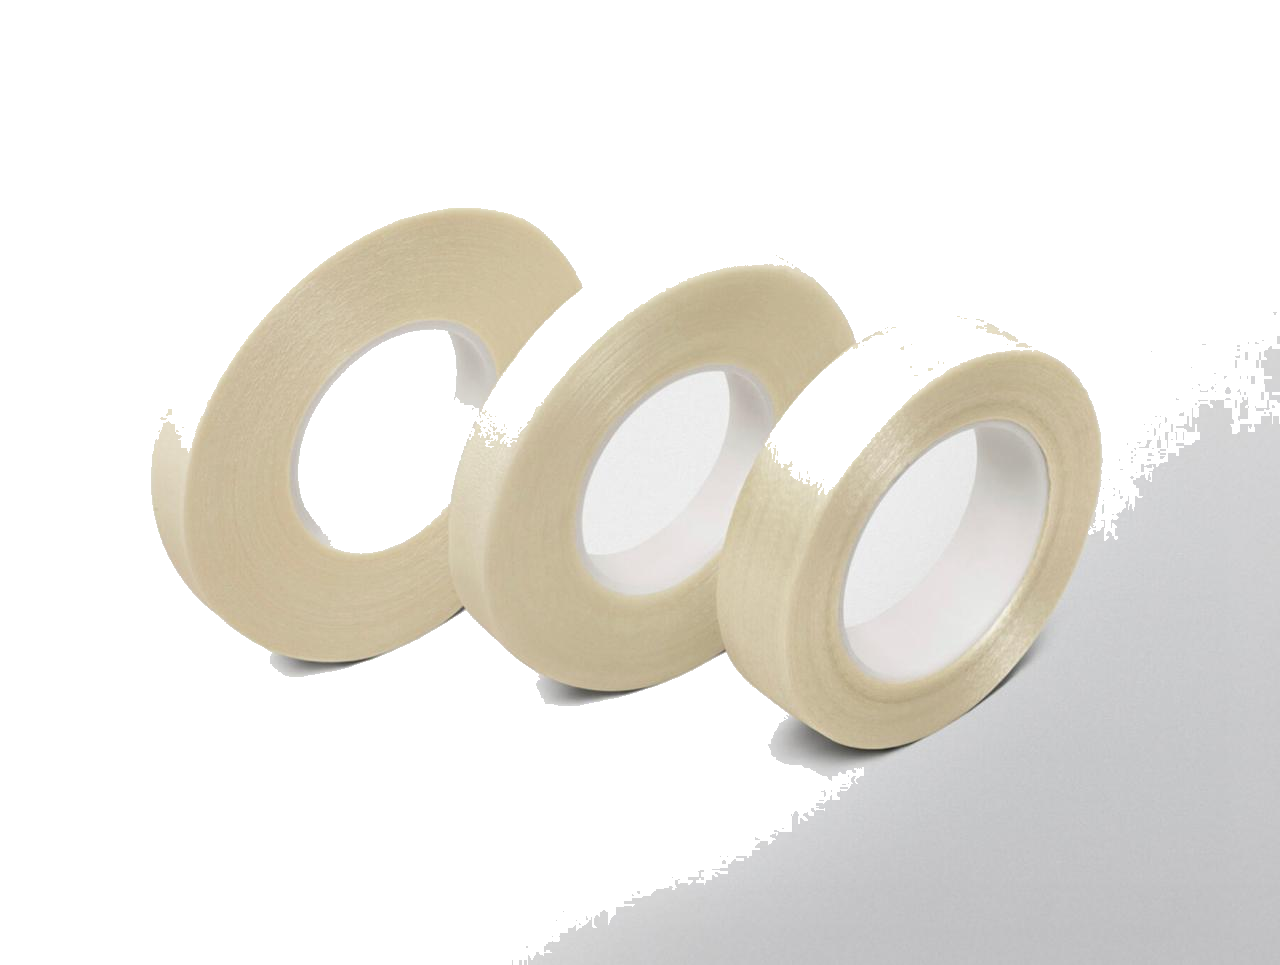
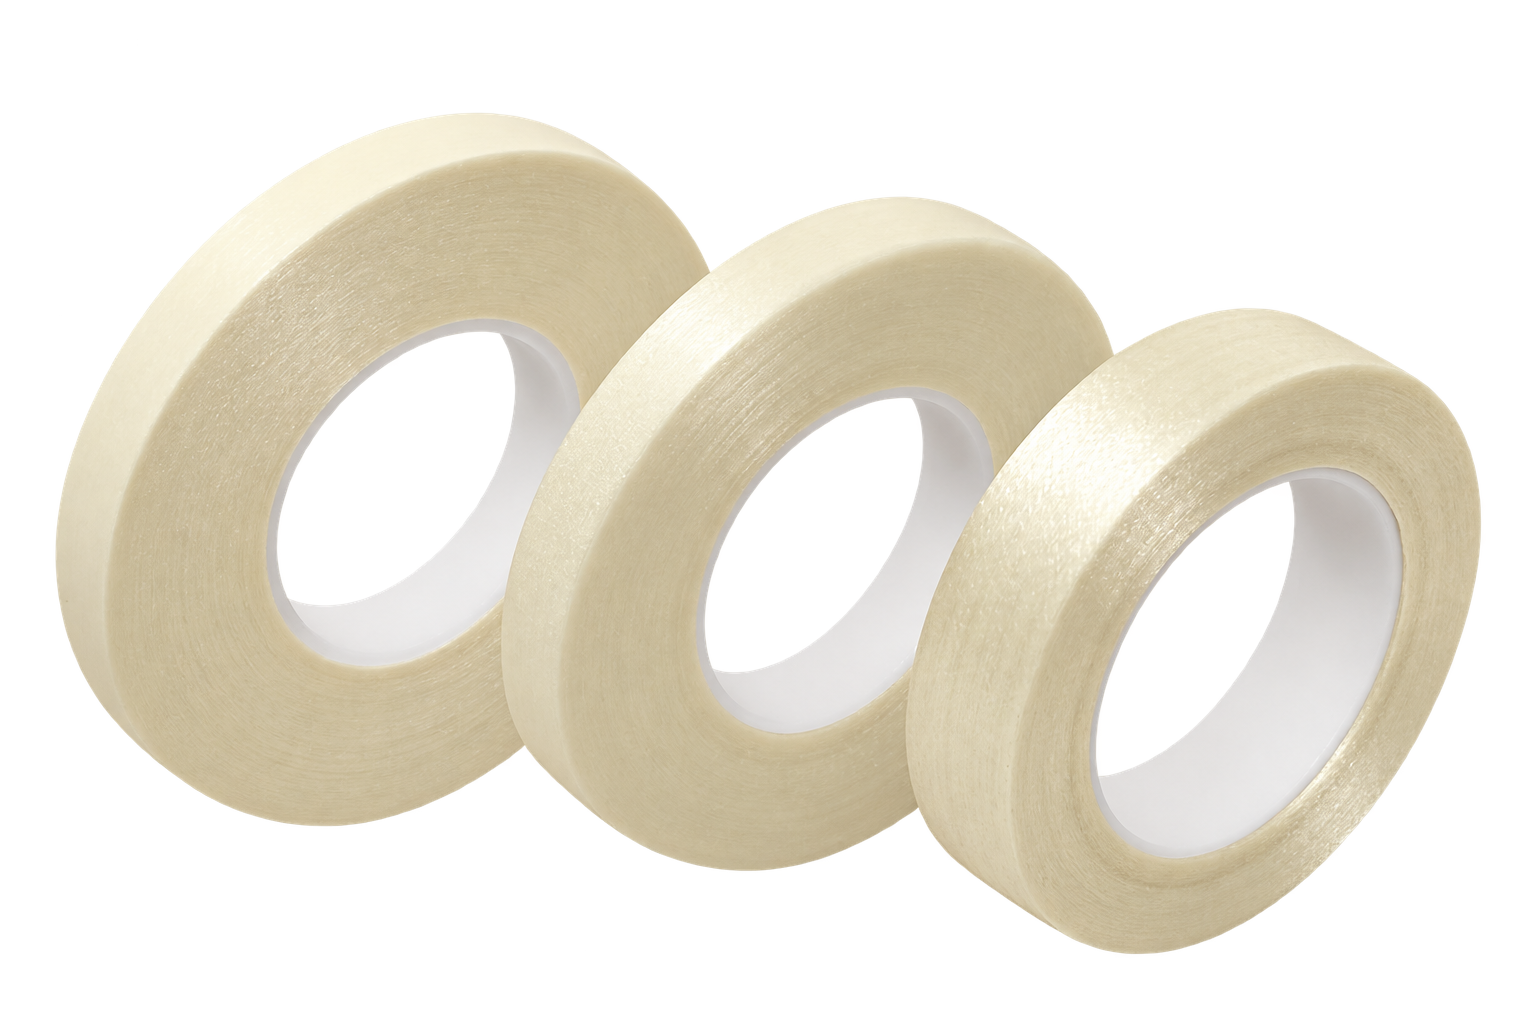
Corrige las 6 observaciones del PDF de Jessica
1. Margen lateral único (--content-padding-x) aplicado consistentemente en
   header, hero, secciones de marca, marcas destacadas, listado de
   productos y footer — antes cada uno tenía su propio padding suelto.
2. Hero: background-size pasa de 90% auto a cover, eliminando las franjas
   negras visibles a los lados y arriba/abajo de la imagen.
3. Fix real del carrusel de marcas: topRow/bottomRow partían el array de
   15 marcas en dos mitades distintas (8 y 7) en vez de mostrar el set
   completo en ambas filas — por eso "las marcas de abajo no estaban
   arriba". Ahora ambas filas muestran las 15 marcas completas, lo que
   también resuelve el hueco vacío al iniciar el carrusel (más ancho de
   contenido real por fila).
4. Se reemplazan las 3 imágenes de Weidmann (Cartón form vall, Cintas
   dieléctricas adhesivas, Tubos de papel crepé) por las versiones que el
   cliente corrigió y volvió a subir, ya con el fondo bien removido.
5. Header en mobile pasa a 3 filas apiladas (logo centrado, buscador de
   ancho completo, nav con iconos junto a "Productos"/"Contacto"),
   liberando espacio vertical para que el hero se vea completo.
6. product-card: el nombre del producto ahora reserva una altura fija (4
   líneas con line-clamp) independiente de su longitud real, corrigiendo
   el bug donde las 2 primeras tarjetas del listado en mobile se veían de
   distinto tamaño hasta que un re-render (ej. una búsqueda) las igualaba.

diff --git a/src/app/shared/components/brand-carousel/brand-carousel.spec.ts b/src/app/shared/components/brand-carousel/brand-carousel.spec.ts
@@ -14,20 +14,20 @@ function createComponent(brands: Brand[]) {
 }
 
 describe('BrandCarousel', () => {
-  it('splits an even list of brands evenly between the two rows', () => {
+  it('shows the full brand list in both rows, not a partition between them', () => {
     const brands = ['a', 'b', 'c', 'd'].map(makeBrand);
     const component = createComponent(brands);
 
-    expect(component.topRow().map((b) => b.id)).toEqual(['a', 'b']);
-    expect(component.bottomRow().map((b) => b.id)).toEqual(['c', 'd']);
+    expect(component.topRow().map((b) => b.id)).toEqual(['a', 'b', 'c', 'd']);
+    expect(component.bottomRow().map((b) => b.id)).toEqual(['a', 'b', 'c', 'd']);
   });
 
-  it('gives the top row the extra brand when the list has an odd length', () => {
+  it('handles an odd-length list the same way in both rows', () => {
     const brands = ['a', 'b', 'c'].map(makeBrand);
     const component = createComponent(brands);
 
-    expect(component.topRow().map((b) => b.id)).toEqual(['a', 'b']);
-    expect(component.bottomRow().map((b) => b.id)).toEqual(['c']);
+    expect(component.topRow().map((b) => b.id)).toEqual(['a', 'b', 'c']);
+    expect(component.bottomRow().map((b) => b.id)).toEqual(['a', 'b', 'c']);
   });
 
   it('handles an empty brand list without throwing', () => {
@@ -37,10 +37,10 @@ describe('BrandCarousel', () => {
     expect(component.bottomRow()).toEqual([]);
   });
 
-  it('puts every brand in the top row and none in the bottom when there is only one', () => {
+  it('handles a single brand the same way in both rows', () => {
     const component = createComponent([makeBrand('solo')]);
 
     expect(component.topRow().map((b) => b.id)).toEqual(['solo']);
-    expect(component.bottomRow()).toEqual([]);
+    expect(component.bottomRow().map((b) => b.id)).toEqual(['solo']);
   });
 });

diff --git a/src/app/shared/components/header/header.html b/src/app/shared/components/header/header.html
@@ -28,10 +28,29 @@
 
   <nav class="header__nav">
     @if (isOnProductsPage()) {
-      <a routerLink="/">Inicio</a>
+      <a routerLink="/">
+        <svg viewBox="0 0 24 24" width="18" height="18" fill="currentColor" aria-hidden="true">
+          <path d="M12 3 3 10h2v10h6v-6h2v6h6V10h2z" />
+        </svg>
+        Inicio
+      </a>
     } @else {
-      <a routerLink="/productos">Productos</a>
+      <a routerLink="/productos">
+        <svg viewBox="0 0 24 24" width="18" height="18" fill="currentColor" aria-hidden="true">
+          <path
+            d="M21 8.5v10a1 1 0 0 1-1 1H4a1 1 0 0 1-1-1v-10L3 8l9-5 9 5zM5 10v7h14v-7l-7-3.85z"
+          />
+        </svg>
+        Productos
+      </a>
     }
-    <a href="#footer" (click)="$event.preventDefault(); scrollToContact()">Contacto</a>
+    <a href="#footer" (click)="$event.preventDefault(); scrollToContact()">
+      <svg viewBox="0 0 24 24" width="18" height="18" fill="currentColor" aria-hidden="true">
+        <path
+          d="M6.62 10.79a15.05 15.05 0 0 0 6.59 6.59l2.2-2.2a1 1 0 0 1 1.01-.24 11.36 11.36 0 0 0 3.58.57 1 1 0 0 1 1 1V20a1 1 0 0 1-1 1C10.61 21 3 13.39 3 4a1 1 0 0 1 1-1h3.5a1 1 0 0 1 1 1c0 1.24.2 2.45.57 3.57a1 1 0 0 1-.25 1.02z"
+        />
+      </svg>
+      Contacto
+    </a>
   </nav>
 </header>

diff --git a/src/app/features/home/home.scss b/src/app/features/home/home.scss
@@ -4,15 +4,15 @@
   min-height: 408px;
   display: flex;
   align-items: center;
-  padding: 3.6rem 1.5rem;
-  background: url('/images/hero/hero-fondo-inicio.png') center center / 90% auto no-repeat;
+  padding: 3.6rem var(--content-padding-x);
+  background: url('/images/hero/hero-fondo-inicio.png') center center / cover no-repeat;
   background-color: var(--color-black);
 
   @media (max-width: 640px) {
-    min-height: 440px;
-    padding: 1.5rem 1.25rem 2rem;
+    min-height: 480px;
+    padding: 1.5rem var(--content-padding-x) 2rem;
     align-items: flex-start;
-    background: url('/images/hero/hero-mobile.png') center bottom / cover no-repeat;
+    background: url('/images/hero/hero-mobile.png') center top / cover no-repeat;
     background-color: var(--color-black);
   }
 }
@@ -87,12 +87,12 @@
 }
 
 .brand-section {
-  padding: 3rem 2rem;
+  padding: 3rem var(--content-padding-x);
   max-width: 1240px;
   margin-inline: auto;
 
   @media (max-width: 640px) {
-    padding: 2.25rem 1.25rem;
+    padding: 2.25rem var(--content-padding-x);
   }
 }
 
@@ -194,7 +194,7 @@
 }
 
 .brands-highlight {
-  padding: 2.5rem 1.5rem;
+  padding: 2.5rem var(--content-padding-x);
   background: var(--color-gray-light);
 
   h2 {

diff --git a/src/app/shared/components/header/header.scss b/src/app/shared/components/header/header.scss
@@ -2,14 +2,15 @@
   display: flex;
   align-items: center;
   gap: 2rem;
-  padding: 1rem 2rem;
+  padding: 1rem var(--content-padding-x);
   background: var(--color-white);
   border-bottom: 1px solid var(--color-gray-medium);
 
   @media (max-width: 640px) {
-    flex-wrap: wrap;
-    gap: 1rem;
-    padding: 0.75rem 1.25rem;
+    flex-direction: column;
+    align-items: stretch;
+    gap: 0.75rem;
+    padding: 0.75rem var(--content-padding-x);
   }
 }
 
@@ -26,10 +27,11 @@
   }
 
   @media (max-width: 640px) {
-    margin: 0 0.5rem 0 0;
+    margin: 0;
+    justify-content: center;
 
     img {
-      height: 40px;
+      height: 44px;
     }
   }
 }
@@ -67,10 +69,18 @@
   gap: 1.25rem;
 
   a {
+    display: flex;
+    align-items: center;
+    gap: 0.4rem;
     color: var(--color-black);
     text-decoration: none;
     font-weight: 600;
     font-size: 0.95rem;
+
+    svg {
+      flex-shrink: 0;
+      color: var(--color-primary);
+    }
 
     &:hover {
       color: var(--color-primary);
@@ -78,8 +88,7 @@
   }
 
   @media (max-width: 640px) {
-    flex-basis: 100%;
     justify-content: center;
-    margin-top: 0.5rem;
+    gap: 2rem;
   }
 }

diff --git a/src/app/shared/components/brand-carousel/brand-carousel.ts b/src/app/shared/components/brand-carousel/brand-carousel.ts
@@ -9,13 +9,9 @@ import { Brand } from '../../../core/models';
 export class BrandCarousel {
   readonly brands = input.required<Brand[]>();
 
-  readonly topRow = computed(() => {
-    const half = Math.ceil(this.brands().length / 2);
-    return this.brands().slice(0, half);
-  });
-
-  readonly bottomRow = computed(() => {
-    const half = Math.ceil(this.brands().length / 2);
-    return this.brands().slice(half);
-  });
+  // Ambas filas muestran el set completo de marcas (no una partición entre
+  // ellas) — cada fila anima en su propia dirección, pero todas las marcas
+  // deben verse tanto arriba como abajo.
+  readonly topRow = computed(() => this.brands());
+  readonly bottomRow = computed(() => this.brands());
 }

diff --git a/src/app/shared/components/product-card/product-card.scss b/src/app/shared/components/product-card/product-card.scss
@@ -55,4 +55,16 @@
   font-weight: 700;
   text-transform: uppercase;
   color: var(--color-black);
+
+  // Alto fijo (4 líneas) independiente de la longitud real del nombre, para
+  // que todas las tarjetas del grid tengan la misma altura desde el primer
+  // render — sin esto, nombres de distinta longitud producían tarjetas de
+  // distinto tamaño hasta que un re-render (ej. una búsqueda) las igualaba.
+  display: -webkit-box;
+  -webkit-box-orient: vertical;
+  -webkit-line-clamp: 4;
+  line-clamp: 4;
+  overflow: hidden;
+  line-height: 1.3;
+  min-height: calc(1.3em * 4);
 }

diff --git a/src/styles.scss b/src/styles.scss
@@ -48,6 +48,17 @@
   // Tipografía
   --font-body: 'Inter', system-ui, -apple-system, sans-serif;
   --font-display: 'Manrope', system-ui, -apple-system, sans-serif;
+
+  // Margen lateral único compartido por todas las secciones de nivel superior
+  // (header, hero, grids de producto, marcas destacadas, footer), para que
+  // el contenido quede alineado en las mismas dos líneas verticales.
+  --content-padding-x: 2rem;
+}
+
+@media (max-width: 640px) {
+  :root {
+    --content-padding-x: 1.25rem;
+  }
 }
 
 * {

diff --git a/src/app/shared/components/footer/footer.scss b/src/app/shared/components/footer/footer.scss
@@ -2,7 +2,7 @@
   display: flex;
   flex-wrap: wrap;
   gap: 3rem;
-  padding: 3rem 2rem;
+  padding: 3rem var(--content-padding-x);
   background: var(--color-black);
   color: var(--color-white);
 
@@ -11,7 +11,7 @@
     align-items: center;
     text-align: center;
     gap: 2rem;
-    padding: 2.5rem 1.25rem;
+    padding: 2.5rem var(--content-padding-x);
   }
 }
 

diff --git a/src/app/features/products/products-list.scss b/src/app/features/products/products-list.scss
@@ -3,7 +3,7 @@
   gap: 2rem;
   max-width: 1240px;
   margin-inline: auto;
-  padding: 2rem 1.5rem;
+  padding: 2rem var(--content-padding-x);
   align-items: flex-start;
 
   @media (max-width: 768px) {
